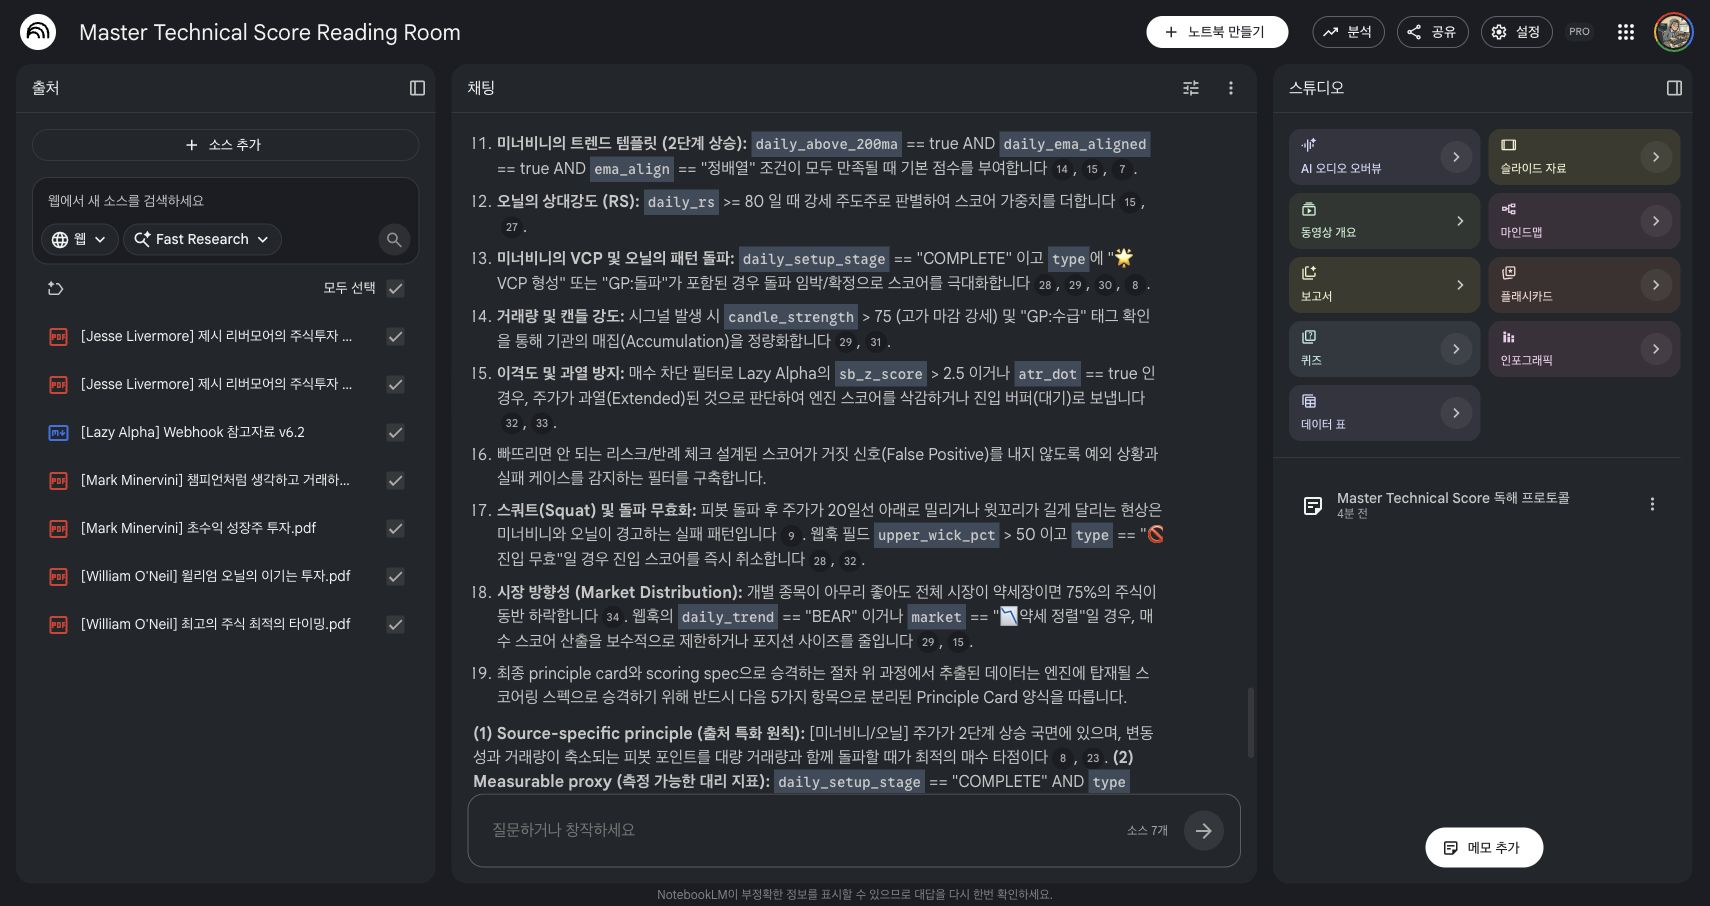
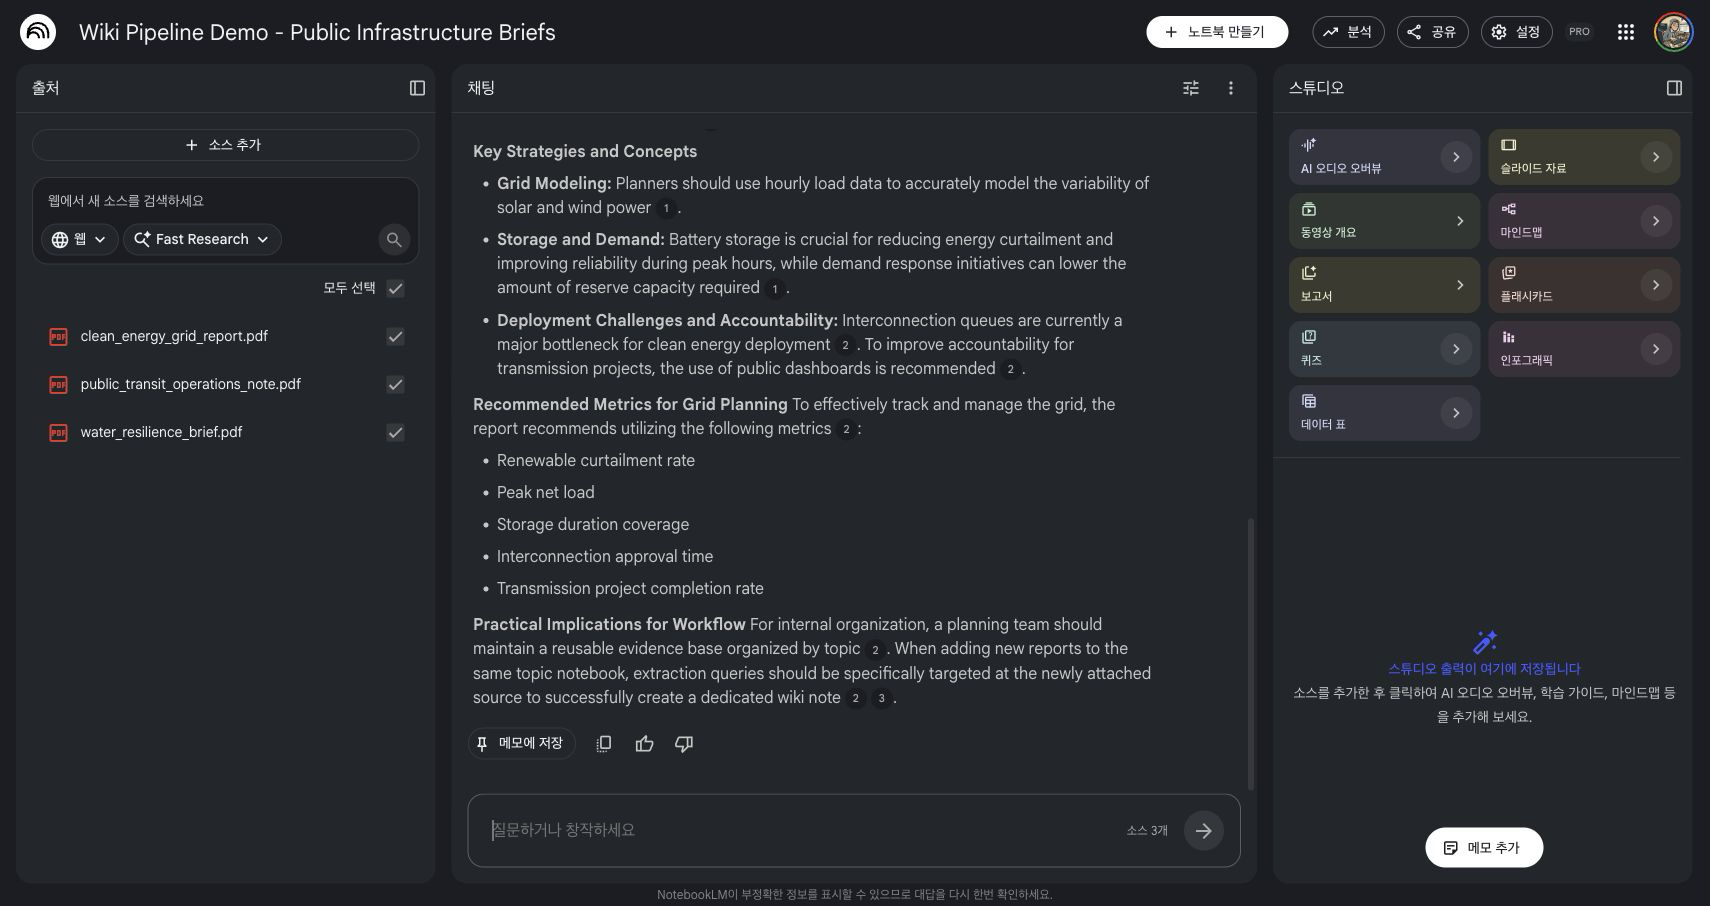
Use public-safe NotebookLM demo screenshot

diff --git a/README.md b/README.md
@@ -19,7 +19,7 @@ MCP query with source_ids = target-PDF-only extraction
 
 ![Actual NotebookLM source-scoped notebook screen](docs/assets/notebooklm-source-scoped-live.png)
 
-The screenshot above is an actual NotebookLM notebook screen from a live MCP test. The notebook contains multiple investment-book sources in one topic notebook, including Mark Minervini, William O'Neil, and Jesse Livermore PDFs. For note generation, the MCP call used `source_ids=[target_source_id]`, and NotebookLM returned `sources_used` with only the target Minervini source.
+The screenshot above is an actual NotebookLM notebook screen from a live MCP test using original public-safe demo PDFs. The topic notebook contains three related infrastructure sources: clean energy grid planning, urban water resilience, and public transit operations. For note generation, the MCP call used `source_ids=[target_source_id]`, and NotebookLM returned `sources_used` with only the target clean-energy source.
 
 ---
 
@@ -40,20 +40,19 @@ The vNext pattern is:
 1 new wiki note = query only 1 target source inside that notebook
 ```
 
-For example, an `investment-books` notebook can contain:
+For example, a `public-infrastructure` notebook can contain:
 
-- `Trade Like a Stock Market Wizard` by Mark Minervini
-- `Think & Trade Like a Champion` by Mark Minervini
-- `How to Make Money in Stocks` by William O'Neil
-- `Jesse Livermore's Stock Trading Bible`
+- `clean_energy_grid_report.pdf`
+- `water_resilience_brief.pdf`
+- `public_transit_operations_note.pdf`
 
-When you want a wiki note for only the Minervini PDF, call:
+When you want a wiki note for only the clean-energy grid PDF, call:
 
 ```python
 notebook_query(
-    notebook_id="investment-books-topic-notebook",
-    source_ids=["target:minervini-superperformance"],
-    query="Summarize insights using only the target PDF."
+    notebook_id="public-infrastructure-topic-notebook",
+    source_ids=["target:clean-energy-grid-report"],
+    query="Summarize insights using only the Clean Energy Grid Planning Report."
 )
 ```
 
@@ -145,10 +144,10 @@ Example:
   "default_extraction_mode": "source_scoped_topic_query",
   "topics": [
     {
-      "id": "investment-books",
-      "label": "Investment Books",
-      "notebook_id": "NOTEBOOKLM_NOTEBOOK_ID_FOR_INVESTMENT_BOOKS",
-      "routing_keywords": ["Minervini", "O'Neil", "Livermore", "investment"],
+      "id": "public-infrastructure",
+      "label": "Public Infrastructure",
+      "notebook_id": "NOTEBOOKLM_NOTEBOOK_ID_FOR_PUBLIC_INFRASTRUCTURE",
+      "routing_keywords": ["clean energy", "water resilience", "public transit", "infrastructure"],
       "sources": []
     }
   ]
@@ -160,8 +159,8 @@ Check the routing decision locally:
 ```bash
 python3 scripts/notebook_registry.py \
   "https://drive.google.com/file/d/YOUR_FILE_ID/view" \
-  --title "Trade Like a Stock Market Wizard" \
-  --topic investment-books \
+  --title "Clean Energy Grid Planning Report" \
+  --topic public-infrastructure \
   --registry config/notebooks.local.json
 ```
 
@@ -169,7 +168,7 @@ Expected decision shape:
 
 ```json
 {
-  "topic_id": "investment-books",
+  "topic_id": "public-infrastructure",
   "notebook_action": "reuse_topic_notebook",
   "extraction_mode": "source_scoped_topic_query",
   "extraction_notebook_action": "reuse_topic_notebook",
@@ -254,8 +253,8 @@ Run a CLI smoke test:
 ```bash
 python3 scripts/notebook_registry.py \
   "https://drive.google.com/file/d/YOUR_FILE_ID/view" \
-  --title "Trade Like a Stock Market Wizard" \
-  --topic investment-books
+  --title "Clean Energy Grid Planning Report" \
+  --topic public-infrastructure
 ```
 
 ## Guardrails
